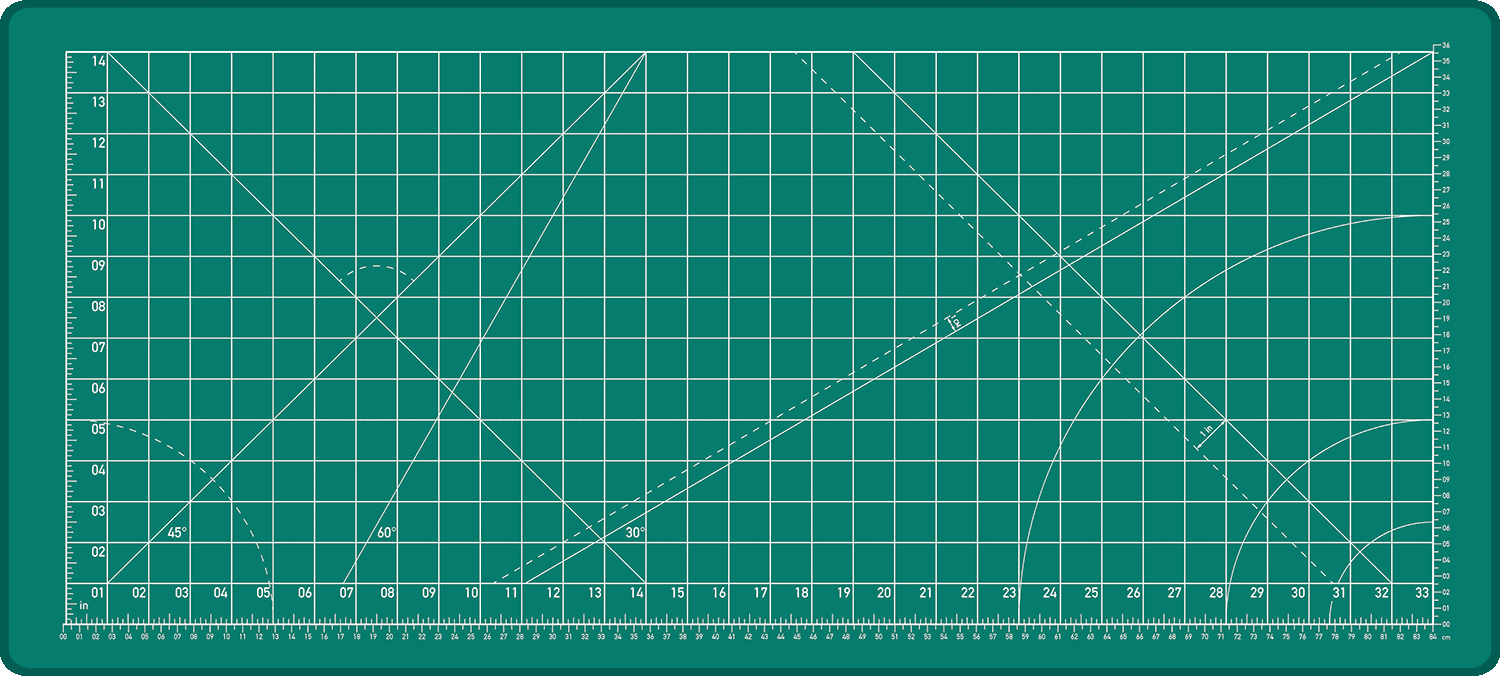
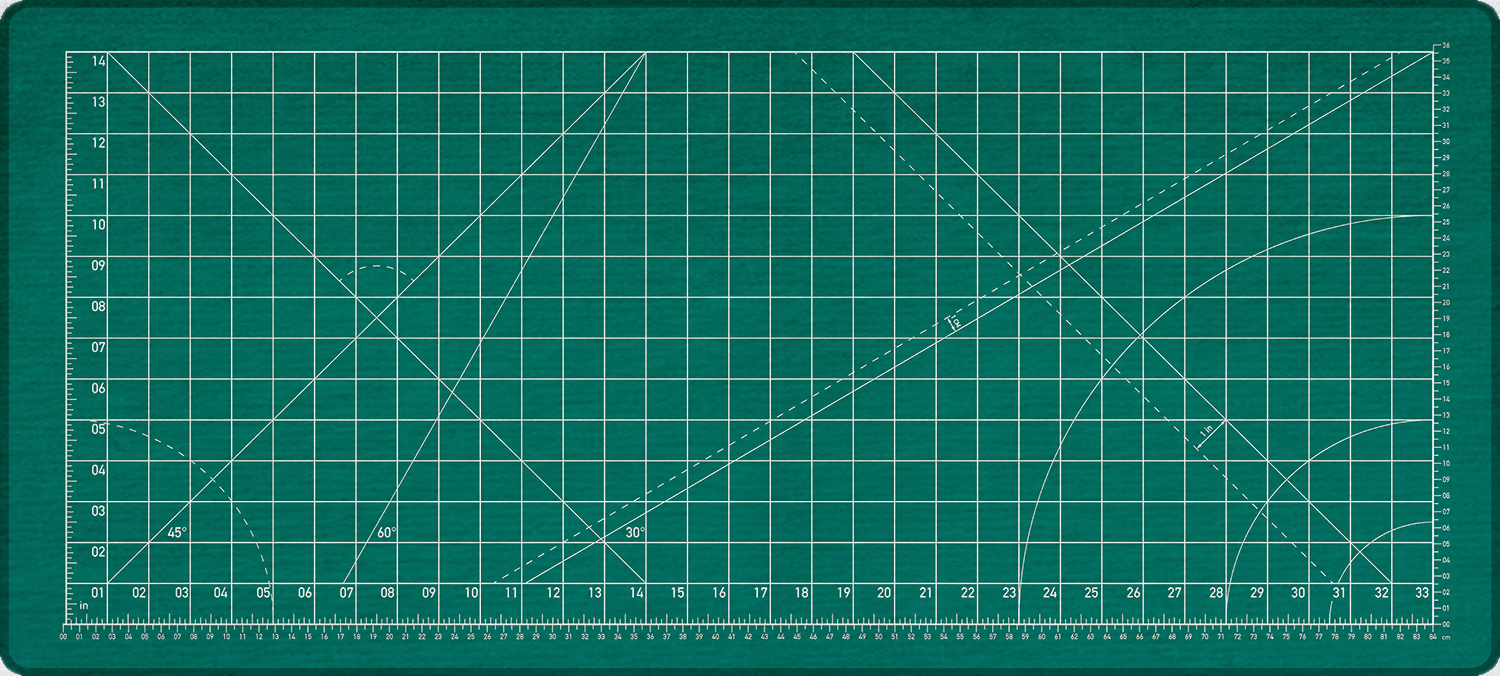
hopefully fixed the spacing of the images

diff --git a/index.html b/index.html
@@ -18,24 +18,20 @@
         </div>
     <<div class="full-width-container">
 
-    <div class="image-container">
-        <!-- Base Image (full width) -->
-        <img src="assets\images\full_width_section\Cutting_Mat.png" 
-             class="base-image" 
-             alt="Banner Image">
+    <<div class="image-container">
+    <img src="assets/images/full_width_section/Cutting_Mat.png" 
+         class="base-image" 
+         alt="Banner Image">
 
-        <!-- Overlay #1 -->
-        <a href="https://example.com" class="overlay"
-           style="top: 120px; left: 180px; width: 90px; height: 90px;">
-            <img src="assets\images\full_width_section\polaroid.png" alt="Overlay 1">
-        </a>
+    <a href="https://example.com" class="overlay overlay-polaroid">
+        <img src="assets/images/full_width_section/polaroid.png" alt="Overlay 1">
+    </a>
 
-        <!-- Overlay #2 -->
-        <a href="https://example.com/second" class="overlay"
-           style="top: 260px; left: 420px; width: 110px; height: 110px;">
-            <img src="assets\images\full_width_section\stickynote.png" alt="Overlay 2">
-        </a>
-    </div>
+    <a href="https://example.com/second" class="overlay overlay-note">
+        <img src="assets/images/full_width_section/stickynote.png" alt="Overlay 2">
+    </a>
+</div>
+
 
     <h2>Full Width Section</h2>
     <p>This spans the entire width above the 3-column layout.</p>

diff --git a/css/layout.css b/css/layout.css
@@ -98,14 +98,29 @@
     display: block;
 }
 
+/* Shared overlay behavior */
 .overlay {
     position: absolute;
-    cursor: pointer;
     display: block;
+}
+
+/* Polaroid position + size */
+.overlay-polaroid {
+    top: 18%;
+    left: 22%;
+    width: 14%;
+}
+
+/* Sticky note position + size */
+.overlay-note {
+    top: 40%;
+    left: 55%;
+    width: 16%;
 }
 
 .overlay img {
     width: 100%;
-    height: 100%;
+    height: auto;
     display: block;
 }
+
